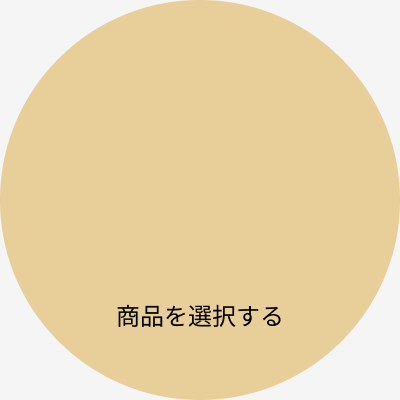
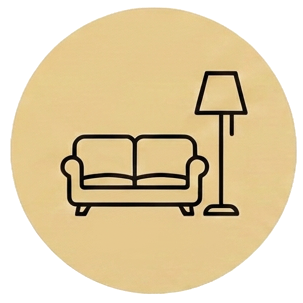
微調整CSS,画像追加 (#60)
* カートjsp、CSS追加

* 画面バグ微調整

* 注文履歴等CSS追加

* 微調整CSS、画像追加

Changed region(s): [[0.0, 0.0, 1.0, 1.0], [0.1782, 0.2079, 0.8317, 0.7129], [0.297, 0.7426, 0.7129, 0.8317]]

diff --git a/src/main/webapp/css/style.css b/src/main/webapp/css/style.css
@@ -343,6 +343,8 @@ hr{
 }
 .menutitleja{
 	text-align: center;
+	font-size: 1.1rem;
+	font-weight: bold;
 }
 .menutext{
 	max-width: 736px;
@@ -380,56 +382,84 @@ header{
 .logout:hover{
 	background-color: rgb(159, 159, 159);	
 }
+
+
 .menu-contents {
-margin-top: 0;
-padding-top: 5rem;
-display: grid;
-grid-template-columns: repeat(5, 1fr);
-grid-template-rows: repeat(5, 1fr);
-grid-column-gap: 0px;
-grid-row-gap: 0px;
+	margin-top: 0;
+	padding-top: 3rem;
+	display: flex;
+	flex-direction: column;
+	align-items: center;
+	gap: 3rem;
+}
+		
+.menu1,
+.menu2,
+.menu3,
+.menu4 {
+	display: flex;
+	flex-direction: column;
+	align-items: center;
+	text-decoration: none;
+	color: #4b2e1f;
+	font-size: 0.9rem;
+	font-weight: 500;
+	gap: 0.7rem;
+	transition: transform .3s;
 }
 
-.menu1 { grid-area: 1 / 2 / 3 / 3; }
-.menu2 { grid-area: 1 / 4 / 3 / 5; }
-.menu3 { grid-area: 3 / 2 / 5 / 3;
-		padding-top: 5rem; }
-.menu4 { grid-area: 3 / 4 / 5 / 5;
-		padding-top: 5rem; }
+.menu1:hover,
+.menu2:hover,
+.menu3:hover,
+.menu4:hover {
+	transform: translateY(-5px);
+}
+
+
 
 .menu-contents img {
-	width: 20rem;
-	height: auto;
+	width: 9rem;
+	height:auto;
+	transition: transform .3s;
 	
 }
-.recruit-link {
-	padding-left: 1rem;
-}
-.recruit-linktext {
-	color: #030303;
-	border: none;
-	font-size: 1.5rem;
-	padding-left: 1rem;
-	text-decoration: none;
+.menu-contents a {
 	font-weight: bold;
 }
 
+.menu1:hover img,
+.menu2:hover img,
+.menu3:hover img,
+.menu4:hover img {
+	transform: scale(1.03);
+}
+/*.recruit-link {*/
+/*	padding-left: 1rem;*/
+/*}*/
+/*.recruit-linktext {*/
+/*	color: #030303;*/
+/*	border: none;*/
+/*	font-size: 1.5rem;*/
+/*	padding-left: 1rem;*/
+/*	text-decoration: none;*/
+/*	font-weight: bold;*/
+/*}*/
 
-.recruit-linktext p {
-	padding-left: 1rem;
 
-	font-size: 1rem;
-	font-weight: normal;
+/*.recruit-linktext p {*/
+/*	padding-left: 1rem;*/
+
+/*	font-size: 1rem;*/
+/*	font-weight: normal;*/
+/*}*/
+
+.service-contents {
+	padding: 1.8rem;
 }
 	
 
 /*商品一覧--------------------------------------------*/
 
-.product-img {
-	width:80%;
-	height:auto;
-	
-}
 .category-menu {
 	display: flex;
 	justify-content: space-around;
@@ -440,6 +470,11 @@ grid-row-gap: 0px;
 	border: none;
 	text-decoration: none;
 	color: #030303;
+}
+.product-list-text {
+	text-align: center;
+	padding: 2rem;
+	
 }
 
 
@@ -509,6 +544,13 @@ grid-row-gap: 0px;
 .cart-btn:hover{
   background-color: #aaaaaa;
   color: #030303;
+}
+
+.not-item {
+	text-align: center;
+	font-size: 1.2rem;
+	font-weight: bold;
+	color: rgb(255, 0, 0);
 }
 /*カート----------------------------------------------*/
 
@@ -707,6 +749,13 @@ grid-row-gap: 0px;
 	text-align: center;
 }
 
+.cart-img {
+	width: 40%;
+	height: auto;
+	display: block;
+	margin: 0 auto;
+}
+
 /*アカウント編集-------------------------------*/
 /*.account-edit-form input[type="checkbox"],*/
 /*.account-form input[type="checkbox"] {*/
@@ -820,20 +869,56 @@ grid-row-gap: 0px;
 	font-size: 2rem;
 }
 
-.recruit-linktext {
+/*.recruit-linktext {*/
 	
-	font-size: 2rem;
-	padding-left: 7rem;
-	text-decoration: none;
-	font-weight: bold;
+/*	font-size: 2rem;*/
+/*	padding-left: 7rem;*/
+/*	text-decoration: none;*/
+/*	font-weight: bold;*/
+/*}*/
+
+
+/*.recruit-linktext p {*/
+/*	padding-left: 7rem;*/
+
+/*	font-size: 1rem;*/
+/*	font-weight: normal;*/
+/*}*/
+
+
+.menu-contents {
+padding-top: 5rem;
+display: grid;
+grid-template-columns: 1fr 24rem 1fr 24rem 1fr;
+grid-template-rows: repeat(5, 1fr);
 }
 
+.menu1 { grid-area: 1 / 2 / 3 / 3; }
+.menu2 { grid-area: 1 / 4 / 3 / 5; }
+.menu3 { grid-area: 3 / 2 / 5 / 3;
+		padding-top: 5rem; }
+.menu4 { grid-area: 3 / 4 / 5 / 5;
+		padding-top: 5rem; }
+		
+.menu-contents img {
+	width: 15rem;
+}
 
-.recruit-linktext p {
-	padding-left: 7rem;
+.menu1,
+.menu2,
+.menu3,
+.menu4 {
+	font-size: 1.1rem;
+}
 
-	font-size: 1rem;
-	font-weight: normal;
+.service-contents {
+	display: flex;
+	justify-content: center;
+	gap: 2rem;
+}
+.service-roomimg {
+	width: 60%;
+	height: auto;
 }
 /*商品一覧*/
 .product-img {
@@ -898,13 +983,35 @@ grid-row-gap: 0px;
 .hero-text h2 {
 	font-size: 3rem;
 }
+
+.menu-contents img {
+	width: 20rem;
+}
+
+.service-contents p {
+	padding-top: 2rem
+	
+}
+.recruit-link a {
+
+	display: block;
+	text-align: center;
+}
+.recruit-link img {
+	display: block;
+	width: 100%;
+	width: 80%;
+	height:  auto;
+	margin: 0 auto;
+}
+
 /*商品一覧*/
 .product-img {
 	width: 400px;
 	height: auto;
 }
 .product-list {
-	padding: 2rem 4rem;
+	padding: 2rem 10rem;
 }
 
 /*カート*/
@@ -931,6 +1038,13 @@ grid-row-gap: 0px;
 .order-card {
 	width: calc(50% - 1rem);
 	min-width: 420px;
+}
+/*注文完了*/
+.cart-img {
+	width: 20%;
+	height: auto;
+	display: block;
+	margin: 0 auto;
 }
 
 }
